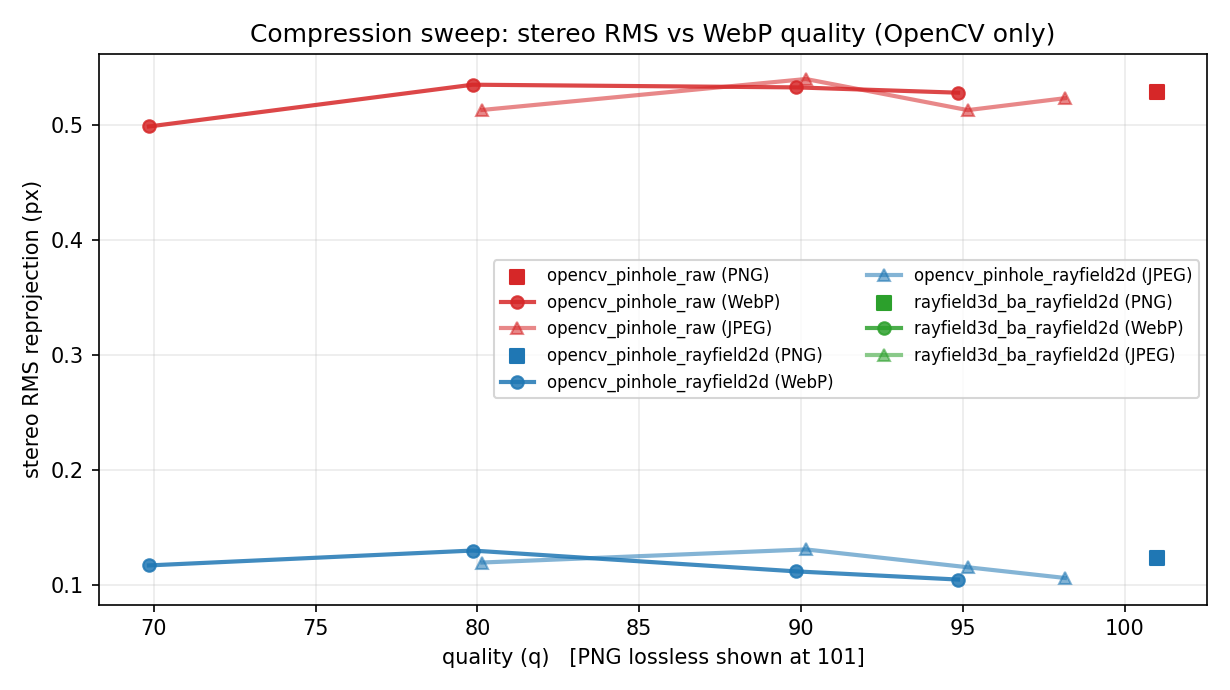
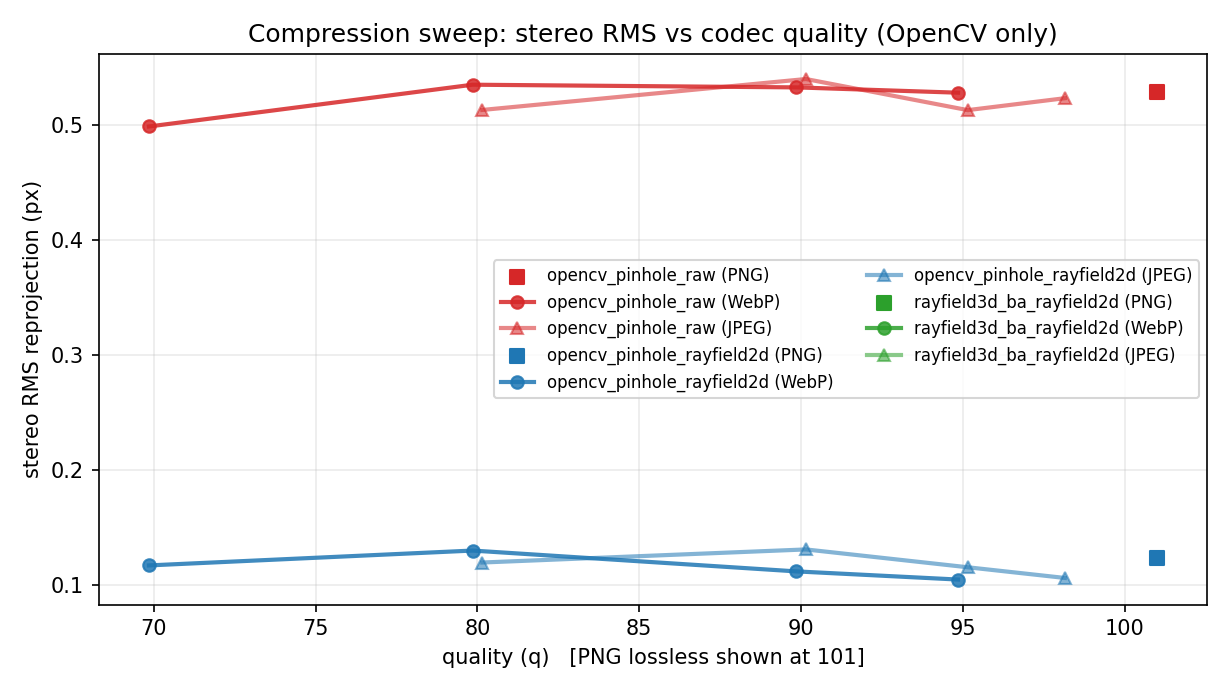
Compression discussion: emphasize 3D ray-field stability

Changed region(s): [[0.1854, 0.0304, 0.865, 0.0609]]

diff --git a/paper/experiments/sweep_compression_3d_methods.py b/paper/experiments/sweep_compression_3d_methods.py
@@ -393,7 +393,7 @@ def main(argv: list[str] | None = None) -> int:
     plot_metric(
         "stereo_rms_px",
         "stereo RMS reprojection (px)",
-        "Compression sweep: stereo RMS vs WebP quality (OpenCV only)",
+        "Compression sweep: stereo RMS vs codec quality (OpenCV only)",
         "stereo_rms_px.png",
     )
 

diff --git a/docs/COMPRESSION_RECONSTRUCTION.md b/docs/COMPRESSION_RECONSTRUCTION.md
@@ -26,7 +26,7 @@ We compare three pipelines:
   - For OpenCV pinhole: direct RMS error vs GT (absolute scale is defined).
   - For 3D ray-field: we report a **similarity-aligned** 3D error, because the ray-based model has a weak gauge (global similarity drift) in this prototype.
 
-## WebP quality sweep
+## Codec quality sweep (WebP + JPEG)
 
 Command (uses cached intermediate JSON files; does not regenerate datasets):
 
@@ -65,7 +65,25 @@ The exact numeric results used to generate these plots are saved as:
 
 The plotting script automatically includes **all computed codec qualities** found in the sweep results (e.g. `webp_q*`, `jpeg_q*`), so extending the sweep does not require manual plot edits.
 
-## Discussion: why can compression sometimes “help”?
+## Key finding: 3D ray-field is remarkably stable under compression
+
+On this sweep, the **central 3D ray-field + BA** pipeline is both:
+
+- **stable** across strong lossy compression, and
+- **consistently better in 3D** than OpenCV pinhole, even when pinhole uses 2D ray-field refined corners.
+
+Quantitatively (range over the tested qualities):
+
+- **3D ray-field (+2D ray-field)**:
+  - WebP q70–q95: baseline error stays in `[0.166, 0.247] px@Z̄` and triangulation stays in `[0.075, 0.083] %Z̄` (similarity-aligned).
+  - JPEG q80–q98: baseline error stays in `[0.195, 0.296] px@Z̄` and triangulation stays in `[0.078, 0.104] %Z̄` (similarity-aligned).
+- **OpenCV pinhole (+2D ray-field)** is still sensitive:
+  - WebP q70–q95: baseline error spans `[0.042, 0.308] px@Z̄` and triangulation spans `[0.591, 1.010] %Z̄`.
+  - JPEG q80–q98: baseline error spans `[0.062, 0.384] px@Z̄` and triangulation spans `[0.899, 1.102] %Z̄`.
+
+The baseline error for the pinhole pipeline can occasionally be *very* low at a specific quality, but it is not monotonic and not stable. In contrast, the ray-based pipeline yields a tight band of performance across codecs and qualities, which is exactly what is needed for compressed, real-time robotics/stereo pipelines.
+
+## Discussion: why can compression sometimes “help” OpenCV, yet remain unstable?
 
 It is not intuitive, but it is plausible to observe that **moderate lossy compression can improve some metrics** in a ChArUco-based pipeline, for at least three reasons:
 
@@ -73,9 +91,11 @@ It is not intuitive, but it is plausible to observe that **moderate lossy compre
 2. **Detection non-linearities and selection effects**: the set of detected markers/corners can change across codecs (some frames may fail, some points may be rejected). This changes the calibration problem itself and can shift the solution (sometimes for the better, sometimes for the worse).
 3. **Model mismatch compensation**: OpenCV calibration may reach a different local optimum depending on the outlier pattern. A change in compression can change the outlier pattern, which can make the pose/baseline estimation appear “better” even if the image is objectively worse.
 
-For these reasons, compression quality sweeps are essential before concluding about robustness.
+This explains the “surprising” observation that raw pinhole metrics can sometimes improve at a given lossy quality (e.g. by implicit low-pass filtering), while remaining inconsistent across the sweep.
 
-In contrast, the ray-field approach aims to reduce sensitivity to these effects by:
+### Why the 3D ray-field stays stable
 
-- using a geometric prior on the board plane (2D ray-field),
-- and using a ray-based representation for 3D (instead of forcing a global pinhole model).
+The ray-field pipeline reduces compression sensitivity at two levels:
+
+1. **2D ray-field refinement** enforces a smooth board→image mapping, reducing corner jitter and down-weighting outliers.
+2. **Ray-based 3D calibration** avoids forcing a single global pinhole/distortion model to explain all residuals. The point↔ray bundle adjustment aggregates constraints across multiple poses and tends to produce a more stable stereo geometry (baseline/epipolar consistency) under measurement perturbations.
